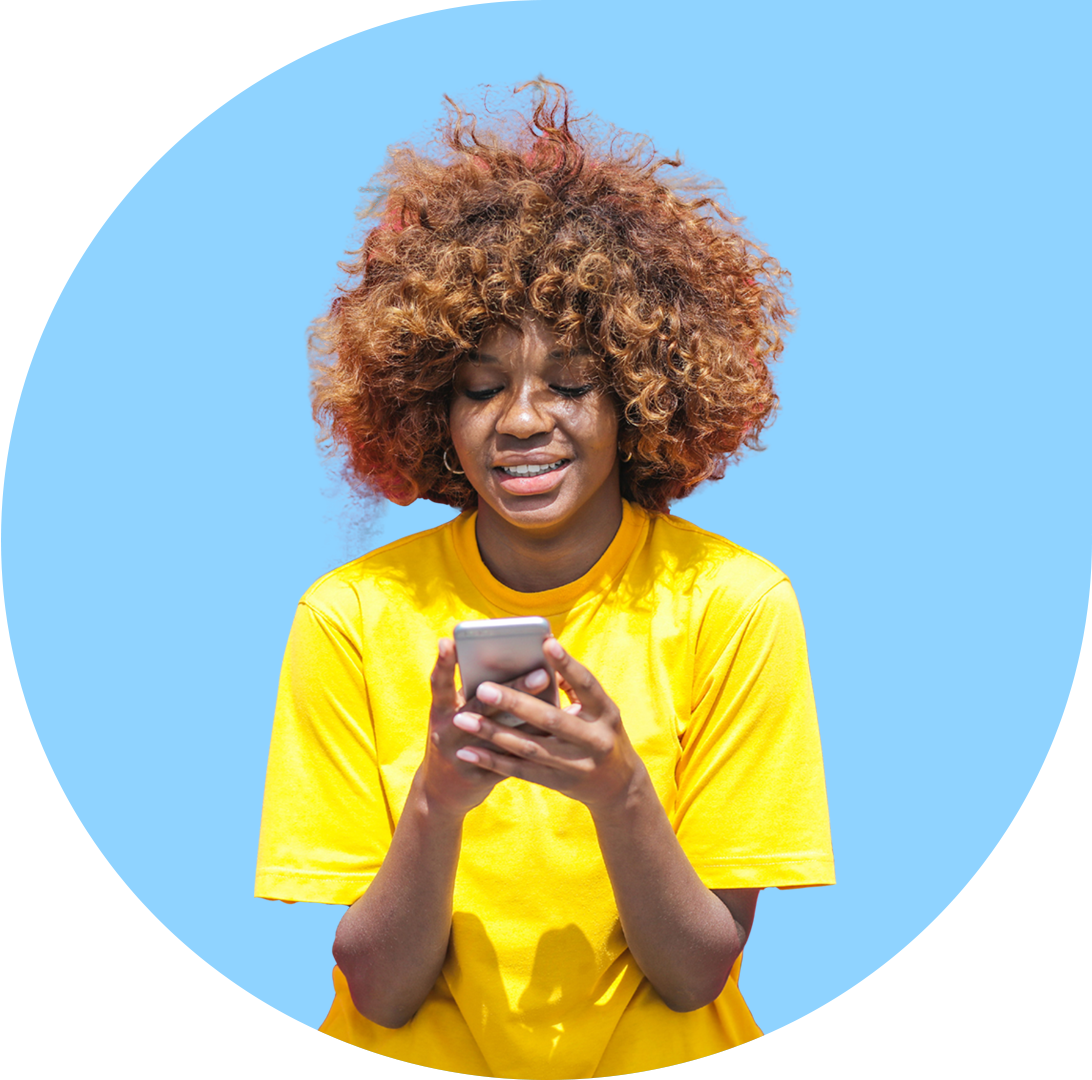
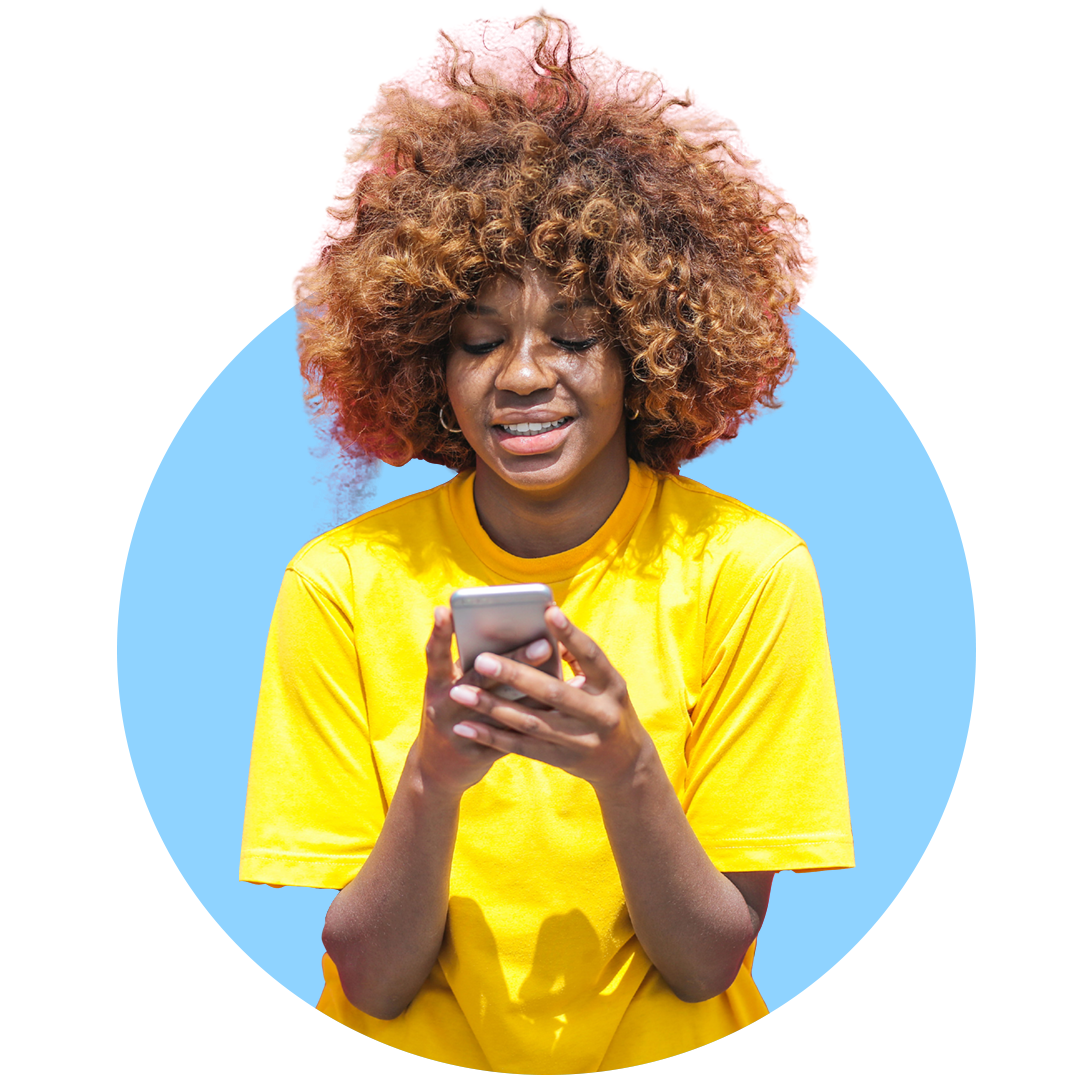
Girl fixes and phone pos fix

diff --git a/src/components/info/info.scss b/src/components/info/info.scss
@@ -29,7 +29,7 @@
     #sideCircleRight {
         position: absolute;
         right: 0;
-        top: 160vh;
+        top: 165vh;
         transform: rotate(180deg);
 
         @media screen and (max-width: 768px) 
@@ -58,10 +58,11 @@
         .circle {
             overflow-x:unset;
             margin-left: 100px;
-            width: 600px;
-            height: 600px;
+            width: 560px;
+            height: 560px;
             background: $lightBlue;
             border-radius: 50%;
+            margin-bottom: 20px;
 
             @media screen and (max-width: 1400px)
             {
@@ -224,7 +225,7 @@
         }
 
         .container {
-            
+            width: 60%;
             display: flex;
             flex-direction: column;
             align-items: flex-start;

diff --git a/src/components/productDropDown/productDropDown.scss b/src/components/productDropDown/productDropDown.scss
@@ -12,8 +12,8 @@
         top: -120px;
         width: 60%;
         height: 150px;
-        background-color: rgba(255, 255, 255, 0.40);
-        backdrop-filter: blur(3px);
+        background-color: rgba(255, 255, 255, 0.50);
+        backdrop-filter: blur(5px);
         border-bottom-right-radius: 25px;
         border-bottom-left-radius: 25px;
         opacity: 0;

diff --git a/src/components/hero/hero.scss b/src/components/hero/hero.scss
@@ -170,11 +170,11 @@
         }
 
         img {
-            height: 100%;
+            height: 90%;
             z-index: 2;
             position: absolute;
-            top: 0;
-            right: 0;
+            top: 80px;
+            right: 140px;
             
 
             @media screen and (max-width: 1300px) 
